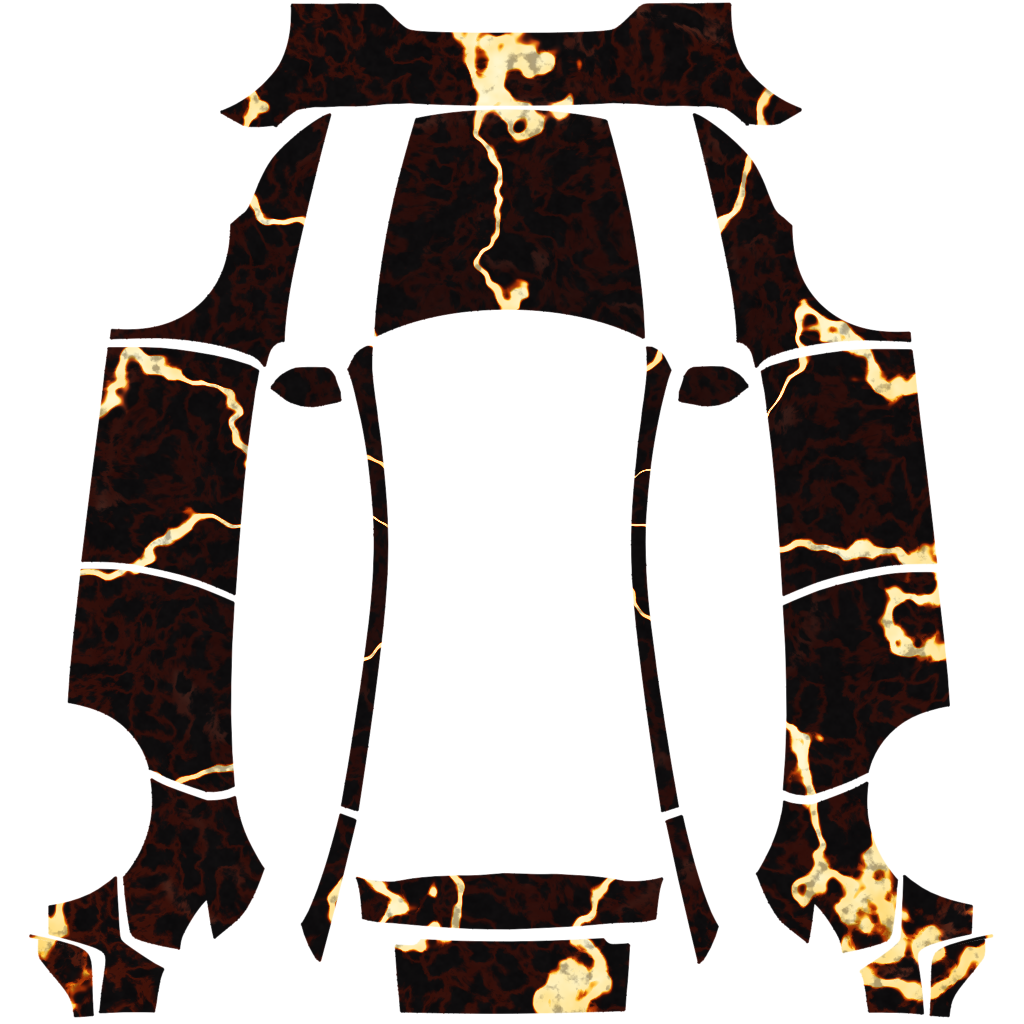
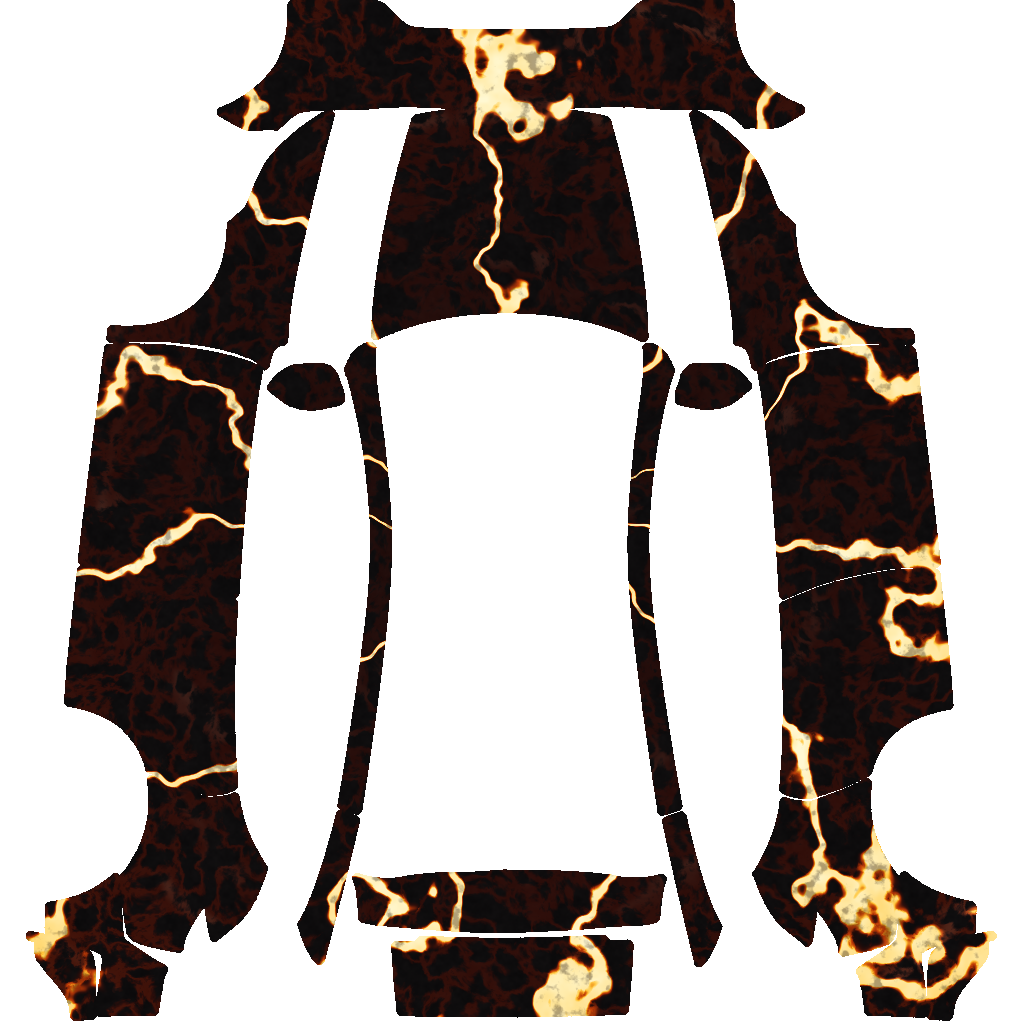
Cover panel-gap texels on magma-rift for 2026-08-30

diff --git a/skins/2026-08-30/README.md b/skins/2026-08-30/README.md
@@ -9,16 +9,16 @@ One invented wrap applied to every official Tesla custom-wrap vehicle.
 
 | Folder | Pixels | File size |
 |---|---|---|
-| `cybertruck` | 1024×768 | 510.1 KB |
-| `model3-2024-base` | 1024×1024 | 626.1 KB |
-| `model3-2024-performance` | 1024×1024 | 624.0 KB |
-| `model3` | 1024×1024 | 586.9 KB |
-| `models-2021` | 1024×1024 | 501.8 KB |
-| `models-2025-plaid` | 1024×1024 | 475.8 KB |
-| `modelx-2021` | 1024×1024 | 387.2 KB |
-| `modely-2025-base` | 1024×1024 | 441.9 KB |
-| `modely-2025-performance` | 1024×1024 | 549.7 KB |
-| `modely-2025-premium` | 1024×1024 | 520.0 KB |
-| `modely-l` | 1024×1024 | 591.3 KB |
-| `modely` | 1024×1024 | 651.6 KB |
+| `cybertruck` | 1024×768 | 649.0 KB |
+| `model3-2024-base` | 1024×1024 | 659.0 KB |
+| `model3-2024-performance` | 1024×1024 | 656.3 KB |
+| `model3` | 1024×1024 | 605.8 KB |
+| `models-2021` | 1024×1024 | 527.4 KB |
+| `models-2025-plaid` | 1024×1024 | 501.8 KB |
+| `modelx-2021` | 1024×1024 | 410.0 KB |
+| `modely-2025-base` | 1024×1024 | 459.5 KB |
+| `modely-2025-performance` | 1024×1024 | 569.2 KB |
+| `modely-2025-premium` | 1024×1024 | 546.0 KB |
+| `modely-l` | 1024×1024 | 617.9 KB |
+| `modely` | 1024×1024 | 678.6 KB |
 

diff --git a/skins/2026-08-30/cybertruck/README.md b/skins/2026-08-30/cybertruck/README.md
@@ -4,7 +4,7 @@
 - **Brief:** Charcoal basalt split by high-contrast molten-gold magma rifts that originate on the roof and flow downhill toward rockers, hood, and tailgate.
 - **Official folder:** `cybertruck`
 - **Pixel size:** 1024×768
-- **File size:** 510.1 KB
+- **File size:** 649.0 KB
 - **File:** `magma-rift.png`
 
 **Size note:** official template is 1024×768 (non-square). Both edges are within 512–1024; export matches the official pixels.
@@ -15,4 +15,3 @@
 - USB: format exFAT / FAT32 / MS-DOS FAT / ext3 / ext4 (not NTFS). Root folder named Wraps. PNG inside. No map or firmware files on that drive.
 - In the car: Toybox → Paint Shop → Wraps tab
 - Limits: official template size, PNG, max 1 MB, up to 10 wraps from the app and 10 from USB
-

diff --git a/skins/2026-08-30/model3-2024-performance/README.md b/skins/2026-08-30/model3-2024-performance/README.md
@@ -4,7 +4,7 @@
 - **Brief:** Charcoal basalt split by high-contrast molten-gold magma rifts that originate on the roof and flow downhill toward rockers, hood, and tailgate.
 - **Official folder:** `model3-2024-performance`
 - **Pixel size:** 1024×1024
-- **File size:** 624.0 KB
+- **File size:** 656.3 KB
 - **File:** `magma-rift.png`
 
 ## Tesla upload steps
@@ -13,4 +13,3 @@
 - USB: format exFAT / FAT32 / MS-DOS FAT / ext3 / ext4 (not NTFS). Root folder named Wraps. PNG inside. No map or firmware files on that drive.
 - In the car: Toybox → Paint Shop → Wraps tab
 - Limits: official template size, PNG, max 1 MB, up to 10 wraps from the app and 10 from USB
-

diff --git a/skins/2026-08-30/modely-2025-performance/README.md b/skins/2026-08-30/modely-2025-performance/README.md
@@ -4,7 +4,7 @@
 - **Brief:** Charcoal basalt split by high-contrast molten-gold magma rifts that originate on the roof and flow downhill toward rockers, hood, and tailgate.
 - **Official folder:** `modely-2025-performance`
 - **Pixel size:** 1024×1024
-- **File size:** 549.7 KB
+- **File size:** 569.2 KB
 - **File:** `magma-rift.png`
 
 ## Tesla upload steps
@@ -13,4 +13,3 @@
 - USB: format exFAT / FAT32 / MS-DOS FAT / ext3 / ext4 (not NTFS). Root folder named Wraps. PNG inside. No map or firmware files on that drive.
 - In the car: Toybox → Paint Shop → Wraps tab
 - Limits: official template size, PNG, max 1 MB, up to 10 wraps from the app and 10 from USB
-

diff --git a/skins/2026-08-30/modely-2025-premium/README.md b/skins/2026-08-30/modely-2025-premium/README.md
@@ -4,7 +4,7 @@
 - **Brief:** Charcoal basalt split by high-contrast molten-gold magma rifts that originate on the roof and flow downhill toward rockers, hood, and tailgate.
 - **Official folder:** `modely-2025-premium`
 - **Pixel size:** 1024×1024
-- **File size:** 520.0 KB
+- **File size:** 546.0 KB
 - **File:** `magma-rift.png`
 
 ## Tesla upload steps
@@ -13,4 +13,3 @@
 - USB: format exFAT / FAT32 / MS-DOS FAT / ext3 / ext4 (not NTFS). Root folder named Wraps. PNG inside. No map or firmware files on that drive.
 - In the car: Toybox → Paint Shop → Wraps tab
 - Limits: official template size, PNG, max 1 MB, up to 10 wraps from the app and 10 from USB
-

diff --git a/skins/2026-08-30/models-2025-plaid/README.md b/skins/2026-08-30/models-2025-plaid/README.md
@@ -4,7 +4,7 @@
 - **Brief:** Charcoal basalt split by high-contrast molten-gold magma rifts that originate on the roof and flow downhill toward rockers, hood, and tailgate.
 - **Official folder:** `models-2025-plaid`
 - **Pixel size:** 1024×1024
-- **File size:** 475.8 KB
+- **File size:** 501.8 KB
 - **File:** `magma-rift.png`
 
 ## Tesla upload steps
@@ -13,4 +13,3 @@
 - USB: format exFAT / FAT32 / MS-DOS FAT / ext3 / ext4 (not NTFS). Root folder named Wraps. PNG inside. No map or firmware files on that drive.
 - In the car: Toybox → Paint Shop → Wraps tab
 - Limits: official template size, PNG, max 1 MB, up to 10 wraps from the app and 10 from USB
-

diff --git a/skins/2026-08-30/model3-2024-base/README.md b/skins/2026-08-30/model3-2024-base/README.md
@@ -4,7 +4,7 @@
 - **Brief:** Charcoal basalt split by high-contrast molten-gold magma rifts that originate on the roof and flow downhill toward rockers, hood, and tailgate.
 - **Official folder:** `model3-2024-base`
 - **Pixel size:** 1024×1024
-- **File size:** 626.1 KB
+- **File size:** 659.0 KB
 - **File:** `magma-rift.png`
 
 ## Tesla upload steps
@@ -13,4 +13,3 @@
 - USB: format exFAT / FAT32 / MS-DOS FAT / ext3 / ext4 (not NTFS). Root folder named Wraps. PNG inside. No map or firmware files on that drive.
 - In the car: Toybox → Paint Shop → Wraps tab
 - Limits: official template size, PNG, max 1 MB, up to 10 wraps from the app and 10 from USB
-

diff --git a/skins/2026-08-30/modely-2025-base/README.md b/skins/2026-08-30/modely-2025-base/README.md
@@ -4,7 +4,7 @@
 - **Brief:** Charcoal basalt split by high-contrast molten-gold magma rifts that originate on the roof and flow downhill toward rockers, hood, and tailgate.
 - **Official folder:** `modely-2025-base`
 - **Pixel size:** 1024×1024
-- **File size:** 441.9 KB
+- **File size:** 459.5 KB
 - **File:** `magma-rift.png`
 
 ## Tesla upload steps
@@ -13,4 +13,3 @@
 - USB: format exFAT / FAT32 / MS-DOS FAT / ext3 / ext4 (not NTFS). Root folder named Wraps. PNG inside. No map or firmware files on that drive.
 - In the car: Toybox → Paint Shop → Wraps tab
 - Limits: official template size, PNG, max 1 MB, up to 10 wraps from the app and 10 from USB
-

diff --git a/skins/2026-08-30/models-2021/README.md b/skins/2026-08-30/models-2021/README.md
@@ -4,7 +4,7 @@
 - **Brief:** Charcoal basalt split by high-contrast molten-gold magma rifts that originate on the roof and flow downhill toward rockers, hood, and tailgate.
 - **Official folder:** `models-2021`
 - **Pixel size:** 1024×1024
-- **File size:** 501.8 KB
+- **File size:** 527.4 KB
 - **File:** `magma-rift.png`
 
 ## Tesla upload steps
@@ -13,4 +13,3 @@
 - USB: format exFAT / FAT32 / MS-DOS FAT / ext3 / ext4 (not NTFS). Root folder named Wraps. PNG inside. No map or firmware files on that drive.
 - In the car: Toybox → Paint Shop → Wraps tab
 - Limits: official template size, PNG, max 1 MB, up to 10 wraps from the app and 10 from USB
-

diff --git a/skins/2026-08-30/modelx-2021/README.md b/skins/2026-08-30/modelx-2021/README.md
@@ -4,7 +4,7 @@
 - **Brief:** Charcoal basalt split by high-contrast molten-gold magma rifts that originate on the roof and flow downhill toward rockers, hood, and tailgate.
 - **Official folder:** `modelx-2021`
 - **Pixel size:** 1024×1024
-- **File size:** 387.2 KB
+- **File size:** 410.0 KB
 - **File:** `magma-rift.png`
 
 ## Tesla upload steps
@@ -13,4 +13,3 @@
 - USB: format exFAT / FAT32 / MS-DOS FAT / ext3 / ext4 (not NTFS). Root folder named Wraps. PNG inside. No map or firmware files on that drive.
 - In the car: Toybox → Paint Shop → Wraps tab
 - Limits: official template size, PNG, max 1 MB, up to 10 wraps from the app and 10 from USB
-

diff --git a/skins/2026-08-30/modely-l/README.md b/skins/2026-08-30/modely-l/README.md
@@ -4,7 +4,7 @@
 - **Brief:** Charcoal basalt split by high-contrast molten-gold magma rifts that originate on the roof and flow downhill toward rockers, hood, and tailgate.
 - **Official folder:** `modely-l`
 - **Pixel size:** 1024×1024
-- **File size:** 591.3 KB
+- **File size:** 617.9 KB
 - **File:** `magma-rift.png`
 
 ## Tesla upload steps
@@ -13,4 +13,3 @@
 - USB: format exFAT / FAT32 / MS-DOS FAT / ext3 / ext4 (not NTFS). Root folder named Wraps. PNG inside. No map or firmware files on that drive.
 - In the car: Toybox → Paint Shop → Wraps tab
 - Limits: official template size, PNG, max 1 MB, up to 10 wraps from the app and 10 from USB
-

diff --git a/skins/2026-08-30/model3/README.md b/skins/2026-08-30/model3/README.md
@@ -4,7 +4,7 @@
 - **Brief:** Charcoal basalt split by high-contrast molten-gold magma rifts that originate on the roof and flow downhill toward rockers, hood, and tailgate.
 - **Official folder:** `model3`
 - **Pixel size:** 1024×1024
-- **File size:** 586.9 KB
+- **File size:** 605.8 KB
 - **File:** `magma-rift.png`
 
 ## Tesla upload steps
@@ -13,4 +13,3 @@
 - USB: format exFAT / FAT32 / MS-DOS FAT / ext3 / ext4 (not NTFS). Root folder named Wraps. PNG inside. No map or firmware files on that drive.
 - In the car: Toybox → Paint Shop → Wraps tab
 - Limits: official template size, PNG, max 1 MB, up to 10 wraps from the app and 10 from USB
-
